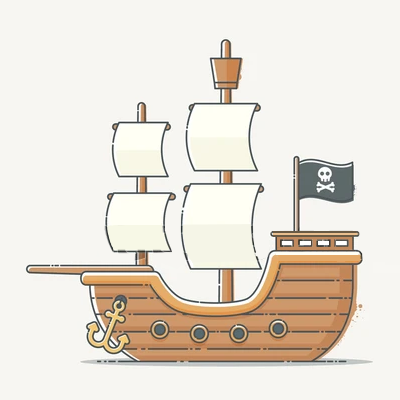
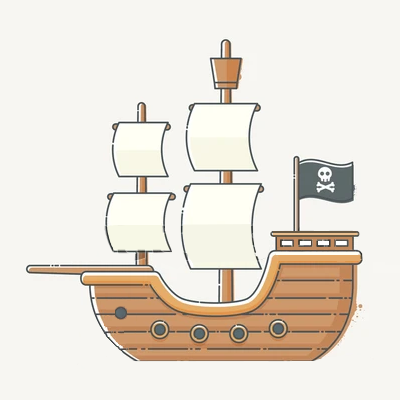
add anchor drop/hoist effect

Changed region(s): [[0.21, 0.72, 0.93, 0.93]]

diff --git a/DemoController.js b/DemoController.js
@@ -18,12 +18,44 @@ class DemoController {
         this.img = new Object();
         this.img.keyboard = new Image();
         this.img.gamepad = new Image();
+        this.img.ship = new Image();
+        this.img.seaFG = new Image();
+        this.img.anchor = new Image();
 
         this.lastConnectedIndex = null;
 
+        this.shipX = 0;
+        this.shipY = 0;
+
+        this.anchorX = 0;
+        this.anchorY = 0;
+        this.anchorDirection = 0;
+        this.anchorMaxDepth = 300;
+
+        this.resize();
+
         // Event Listeners
         window.addEventListener('device-input', e => {
-            // TODO
+            const device = e.detail.device,
+                  buttons = e.detail.buttons;
+            
+            if (device instanceof Gamepad) {
+                if (buttons.hasOwnProperty(13) && buttons[13].state === 'press') {
+                    this.dropAnchor();
+                } else if (buttons.hasOwnProperty(12) && buttons[12].state === 'hold') {
+                    this.hoistAnchor();
+                } else if (this.anchorDirection === -1) {
+                    this.anchorDirection = 0;
+                }
+            } else {
+                if (buttons.hasOwnProperty('ArrowDown') && buttons['ArrowDown'].state === 'press') {
+                    this.dropAnchor();
+                } else if (buttons.hasOwnProperty('ArrowUp') && buttons['ArrowUp'].state === 'hold') {
+                    this.hoistAnchor();
+                } else if (this.anchorDirection === -1) {
+                    this.anchorDirection = 0;
+                }
+            }
         });
 
         window.addEventListener('device-detected', e => {
@@ -56,6 +88,21 @@ class DemoController {
                 this.gamepads[device.index].className = '';
         });
 
+        window.addEventListener('resize', () => this.resize());
+        window.addEventListener('fullscreenchange', () => this.resize());
+    }
+
+    resize() {
+        this.canvas.width = window.innerWidth;
+        this.canvas.height = window.innerHeight;
+
+        this.canvas.style.width = this.canvas.width + 'px';
+        this.canvas.style.height = this.canvas.height + 'px';
+
+        this.shipX = Math.min(this.canvas.width - 400, this.canvas.width / 2);
+        this.shipY = 20;
+
+        this.ms = 0;
     }
 
     changeActive(slot) {
@@ -70,17 +117,90 @@ class DemoController {
         this.active.className = (slot !== null) ? 'gamepad' : 'keyboard';
     }
 
+    renderShip(delta) {
+        const yOffset = Math.sin(this.ms / 200);
+        this.ctx.drawImage(this.img.ship, 0, 0, this.img.ship.width, this.img.ship.height, this.shipX, this.shipY + yOffset, this.img.ship.width, this.img.ship.height);
+    }
+
+    drawRotation(img, x, y, w, h, deg) {
+        this.ctx.save();
+        this.ctx.translate(x+w/2, y+h/2);
+        this.ctx.rotate(deg * Math.PI / 180.0);
+        this.ctx.translate(-x-w/2 + (-deg / 4), -y-h/2);
+        this.ctx.drawImage(img, x, y, w, h);
+        this.ctx.restore();
+    }
+
+    renderAnchor(delta) {
+        let yOffset = 305 + Math.sin(this.ms / 200),
+            degrees = 0;
+
+        if (this.anchorDirection > 0) {
+            if (this.anchorY < this.anchorMaxDepth) {
+                this.anchorY = Math.min(this.anchorMaxDepth, this.anchorY + (this.anchorMaxDepth * (delta / 1000)));
+            } else {
+                this.anchorDirection = 0;
+            }
+        } else if (this.anchorDirection < 0) {
+            if (this.anchorY > 0) {
+                this.anchorY = Math.max(0, this.anchorY - (this.anchorMaxDepth * (delta / 2000)));
+            } else {
+                this.anchorDirection = 0;
+            }
+        }
+
+        degrees = -20 * Math.min(1, this.anchorY / 50);
+        degrees *= Math.max(1, 5 * ((this.anchorY - (this.anchorMaxDepth * 0.8)) / (this.anchorMaxDepth * 0.2)));
+
+        this.drawRotation(this.img.anchor, this.shipX + 80 + (this.anchorY / 6), this.shipY + yOffset + this.anchorY, 60, 60, degrees);
+        this.ctx.beginPath();
+        this.ctx.moveTo(this.shipX + 120, this.shipY + yOffset + 10);
+        this.ctx.lineTo(this.shipX + 120 + (degrees / 3) + (this.anchorY / 6), this.shipY + yOffset + this.anchorY + 5);
+        this.ctx.strokeStyle = '#5a6870';
+        this.ctx.lineWidth = 2;
+        this.ctx.stroke();
+        //this.ctx.drawImage(this.img.anchor, 0, 0, 60, 60, this.shipX + 80, this.shipY + yOffset + this.anchorY, 60, 60);
+    }
+
+    renderForeground() {
+        this.ctx.drawImage(this.img.seaFG, 0, 0, 300, 10, this.shipX + 50, this.shipY + 352, 300, 10);
+    }
+
+    renderCannonFire(delta) {
+        // TODO
+    }
+
     update(delta) {
+        this.ms += delta;
         this.input.update(delta);
+        this.ctx.clearRect(0, 0, this.canvas.width, this.canvas.height);
+        this.renderShip(delta);
+        this.renderAnchor(delta);
+        this.renderForeground();
+        this.renderCannonFire(delta);
+    }
+
+    dropAnchor() {
+        this.anchorDirection = 1;
+    }
+
+    hoistAnchor() {
+        this.anchorDirection = -1;
     }
 
     load() {
         const images = new Array();
         images.push(new Promise((resolve => this.img.keyboard.onload = resolve)));
         images.push(new Promise((resolve => this.img.gamepad.onload  = resolve)));
+        images.push(new Promise((resolve => this.img.ship.onload  = resolve)));
+        images.push(new Promise((resolve => this.img.seaFG.onload  = resolve)));
+        images.push(new Promise((resolve => this.img.anchor.onload  = resolve)));
 
         this.img.keyboard.src = './assets/img/keyboard.png';
         this.img.gamepad.src = './assets/img/gamepad.png';
+        this.img.ship.src = './assets/img/ship.png';
+        this.img.seaFG.src = './assets/img/sea-foreground.png';
+        this.img.anchor.src = './assets/img/anchor.png';
 
         return Promise.all(images);
     }

diff --git a/main.css b/main.css
@@ -69,6 +69,7 @@ canvas {
     left: 0;
     width: 100%;
     height: 100%;
+    background-color: #f7f6f2;
 }
 
 #interface {
@@ -86,11 +87,14 @@ canvas {
     position: absolute;
     top: 20px;
     left: 20px;
+    width: 360px;
+    height: 290px;
 }
 
 #devices #idle-devices {
-    display: inline-block;
-    margin-right: 15px;
+    position: absolute;
+    left: 0;
+    top: 0;
 }
 
 #devices #idle-devices > div {
@@ -154,9 +158,10 @@ canvas {
 ------------------- */
 
 #devices #active-device {
-    position: relative;
+    position: absolute;
+    top: 0;
+    right: 0;
     z-index: 10;
-    display: inline-block;
     background-color: #fff;
     height: 280px;
     width: 280px;
@@ -301,15 +306,8 @@ canvas {
     width: 50px;
     height: 50px;
     padding-top: 11px;
-    /* image-rendering: pixelated;
-    image-rendering: -moz-crisp-edges;
-    image-rendering: crisp-edges; */
 }
 
-.keyboard .icon.drop-anchor {
-}
-.keyboard .icon.hoist-anchor {
-}
 .keyboard .icon.fire-cannon {
     height: 75px;
     width: 75px;
@@ -317,12 +315,6 @@ canvas {
 
 }
 
-.gamepad .icon.drop-anchor {
-
-}
-.gamepad .icon.hoist-anchor {
-
-}
 .gamepad .icon.fire-cannon {
     height: 50px;
     width: 100px;

diff --git a/src/Devices.js b/src/Devices.js
@@ -9,7 +9,7 @@ class DeviceManager {
     static AXIS_DRIFT = 0.25;
 
     // time passed, in milliseconds, before button-held actions are registed on device-input events
-    static HOLD_DELAY = 500;
+    static HOLD_DELAY = 50;
 
     static dispatch(id, detail, cancelable = false) {
         const e = new CustomEvent(id, { detail, cancelable });
